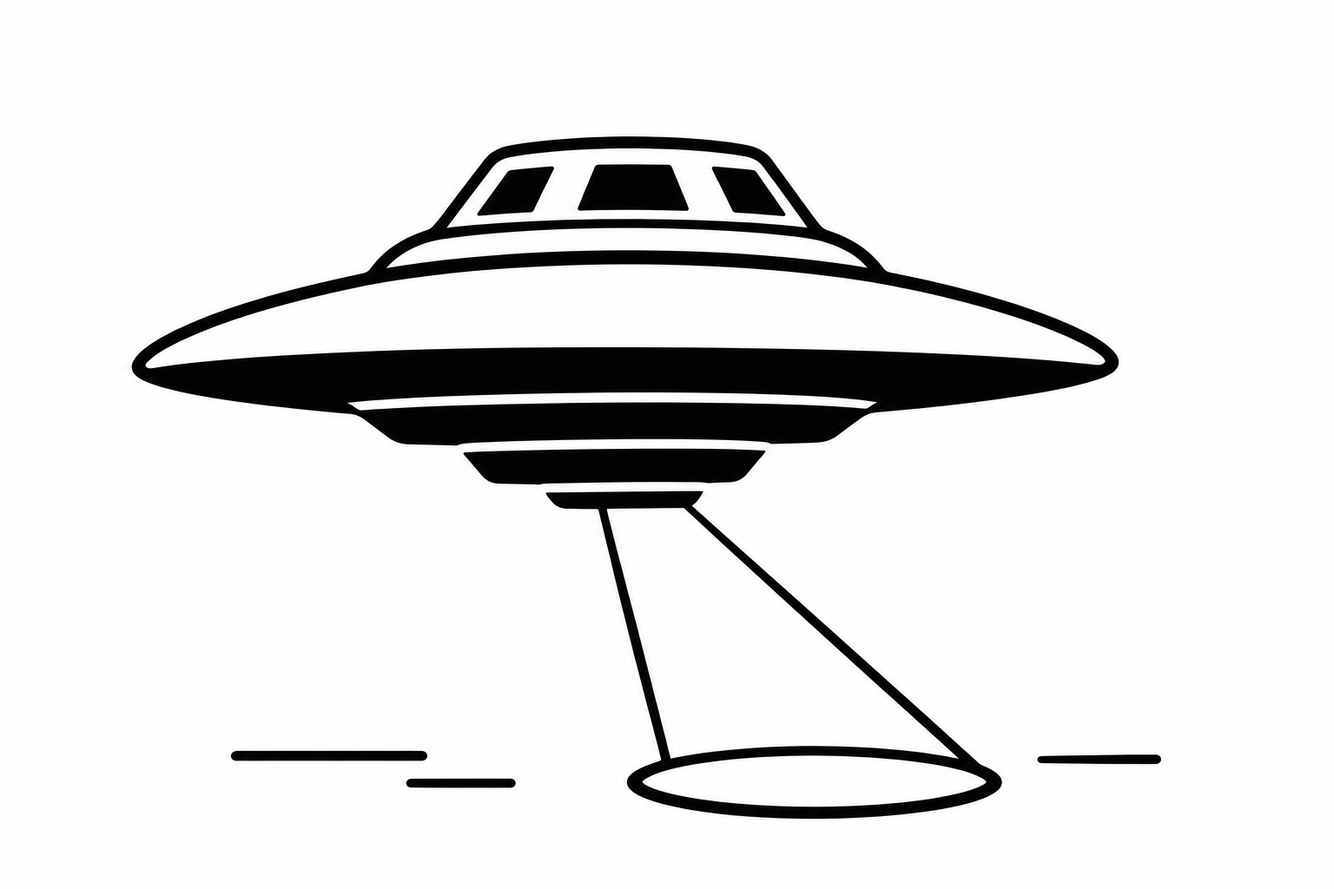
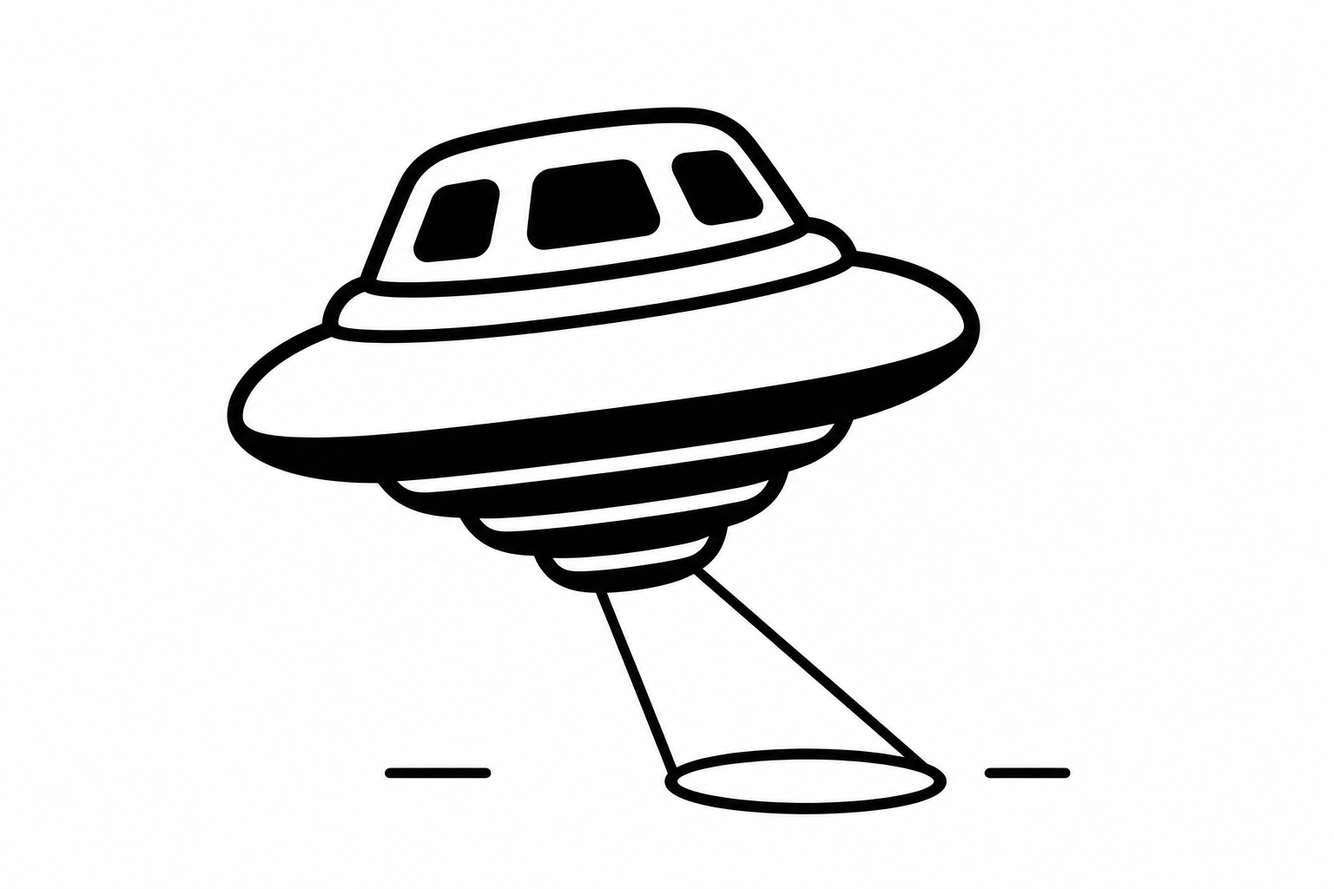
Soften empty-state craft proportions and add playful tilt

Changed region(s): [[0.0938, 0.0938, 0.875, 0.9375], [0.1562, 0.8438, 0.4062, 0.9062]]

diff --git a/uap-lab/static/label-videos.html b/uap-lab/static/label-videos.html
@@ -1,6 +1,6 @@
 <!doctype html><html lang="en"><head><meta charset="utf-8"><meta name="viewport" content="width=device-width,initial-scale=1"><title>Review detections · Field Station</title><link rel="stylesheet" href="/style.css"><link rel="stylesheet" href="/app-shell.css?v=10"><script src="/app-shell.js?v=12" defer></script><style>
 main{max-width:1500px;margin:auto;padding:12px 24px}.queue-toolbar{display:flex;justify-content:space-between;align-items:center;gap:12px;margin:0 0 12px;font-size:13px}.queue-toolbar p{margin:0;color:var(--muted)}#detectionQueue{columns:260px;column-gap:0;line-height:0}.detection-card{position:relative;break-inside:avoid;display:block;overflow:hidden;margin:0;background:#05090c}.detection-image{display:block;width:100%;padding:0;border:0;border-radius:0;background:transparent}.detection-image img{display:block;width:100%;height:auto;aspect-ratio:auto 1 / 1;image-rendering:auto}.category-actions{position:absolute;inset:0;display:flex;flex-direction:column;justify-content:flex-start;background:linear-gradient(#10182033,#101820f5 45%);padding:10px;line-height:1.3;opacity:0;visibility:hidden;transition:opacity .12s;overflow:auto}.detection-card:hover .category-actions,.detection-card:focus-within .category-actions,.detection-card.controls-open .category-actions{opacity:1;visibility:visible}.category-grid{flex-shrink:0;display:grid;grid-template-columns:repeat(3,minmax(0,1fr));gap:4px}.category-grid button{font:600 11px var(--app-font);padding:4px 3px;margin:0;border:1px solid #71878c;border-radius:4px;background:#15232ce8;color:#fff;min-height:28px;overflow-wrap:anywhere}.category-grid button:hover,.category-grid button:focus-visible{background:#315748;outline:2px solid #b8f4dd;outline-offset:0}.review-actions{display:flex;align-items:center;gap:8px;margin-top:8px;font-size:12px}.review-actions a,.review-actions button{flex:1;text-align:center;font:inherit;padding:4px 4px;background:#101820;color:#fff;border:1px solid #71878c;border-radius:4px;text-decoration:none}.queue-error{color:#ffb6aa;font-size:12px;line-height:1.4;margin:6px 0 0}.queue-toast{position:fixed;bottom:20px;left:50%;transform:translateX(-50%);z-index:1001;background:#15232c;color:#fff;border:1px solid #71878c;border-radius:8px;padding:12px 16px;display:flex;gap:16px;align-items:center;max-width:94vw;line-height:1.4}.queue-toast[hidden]{display:none}#moreDetections{margin:16px 0}#queueFrame{width:min(1200px,96vw);background:#101820;color:#fff;border:1px solid #71878c;border-radius:8px;max-height:92dvh}#queueFrame img{max-width:100%;max-height:70dvh;object-fit:contain;display:block;margin:12px auto}#queueFrame::backdrop{background:#000b}.frame-actions{display:flex;justify-content:space-between;gap:16px;align-items:center}@media(max-width:600px){main{padding:8px 12px}.category-grid{grid-template-columns:repeat(2,minmax(0,1fr))}.category-grid button{min-height:28px}.category-actions{justify-content:flex-start}.queue-toolbar{font-size:12px}#detectionQueue{columns:2}.category-actions{padding:6px}}@media(hover:none) and (any-hover:none){.detection-card .category-actions{position:relative;inset:auto;opacity:1;visibility:visible;background:var(--panel,#101820);padding:10px}.category-grid button,.review-actions a,.review-actions button{min-height:36px}}
 #queueFilters{display:flex;gap:8px;margin:0 0 8px;overflow-x:auto;scrollbar-width:none}#queueFilters::-webkit-scrollbar{display:none}#queueFilters a{font-size:13px;text-decoration:none;color:inherit;border-bottom:2px solid transparent;padding:2px 12px 1rem;white-space:nowrap}#queueFilters [aria-current="page"]{font-weight:700;border-bottom-color:var(--accent)}#detectionQueue{display:grid;grid-template-columns:repeat(auto-fill,minmax(min(240px,100%),320px));gap:0;columns:auto}.detection-card{align-self:start}.detection-image{aspect-ratio:auto;width:100%;height:auto;overflow:hidden}.detection-image img{width:100%;height:auto;aspect-ratio:auto;object-fit:contain}@media(max-width:600px){#detectionQueue{grid-template-columns:repeat(2,minmax(0,1fr));columns:auto}}.detection-card.selected{outline:3px solid var(--accent);outline-offset:-3px}.frame-select{position:absolute;right:8px;bottom:8px;z-index:2;width:22px;height:22px;cursor:pointer;accent-color:var(--accent)}.bulk-review{position:fixed;left:50%;bottom:max(12px,env(safe-area-inset-bottom));transform:translateX(-50%);width:max-content;max-width:calc(100vw - 24px);max-height:calc(100dvh - 120px);overflow:auto;z-index:1001;border-radius:8px;box-shadow:0 8px 32px #0005;display:flex;align-items:center;flex-wrap:wrap;gap:12px;padding:12px;background:var(--bg,#101820);color:var(--text,inherit);border:1px solid var(--accent);line-height:1.4}.bulk-review[hidden]{display:none}main:has(.bulk-review:not([hidden])){padding-bottom:calc(var(--bulk-review-height,180px) + 32px)}#bulkCategories{display:flex;gap:8px;flex-wrap:wrap}.selection-help{font-size:12px;color:var(--muted)}.detection-card{user-select:none}
-#queueToast{pointer-events:none}#objectViews{display:flex;overflow-x:auto;gap:8px;margin-bottom:12px}#objectViews button{white-space:nowrap;background:transparent;color:inherit;border:0;border-bottom:2px solid transparent;border-radius:0}#objectViews button[aria-pressed="true"]{border-bottom-color:var(--accent);font-weight:700}.object-label{position:absolute;top:0;left:0;padding:6px 8px;background:var(--panel);color:var(--ink);font-size:11px;line-height:1.3;pointer-events:none}.category-actions{padding-top:42px}</style><link rel="stylesheet" href="/review-filters.css?v=1"></head><body><main><p id="queueStatus" hidden></p><nav id="objectViews" class="category-tabs" aria-label="Detection views"></nav><div id="bulkReview" class="bulk-review" role="region" aria-label="Classify selected frames" hidden><span id="selectionCount" role="status"></span><div id="bulkCategories"></div><button id="selectAll" type="button">Select all loaded</button><button id="clearSelection" type="button">Clear selection</button></div><div id="detectionQueue"></div><button id="moreDetections" hidden>Load 100 more</button><p id="queueEmpty" hidden><svg class="review-empty-ufo" aria-hidden="true" focusable="false" xmlns="http://www.w3.org/2000/svg" viewBox="110 110 1270 875" version="1.1">
-	<path d="M 693 157.665 C 650.668 159.178, 600.226 164.196, 582.500 168.658 C 574.414 170.694, 566.151 175.231, 561.283 180.309 C 557.330 184.433, 543.645 202.021, 516.783 237.500 C 498.668 261.426, 497.100 262.972, 487.391 266.481 C 462.307 275.548, 444.528 287.414, 430.424 304.500 C 427.247 308.350, 423.887 312.045, 422.958 312.712 C 422.030 313.379, 410.217 316.408, 396.709 319.443 C 318.676 336.977, 266.453 352.396, 224.193 370.379 C 157.794 398.634, 136.012 422.723, 163.702 437.274 C 190.947 451.591, 282.720 466.869, 399.500 476.529 C 410.534 477.442, 415.060 479.739, 434.142 494.110 C 457.530 511.724, 455.567 511.121, 493.461 512.322 C 517.082 513.070, 525.489 513.017, 528.925 512.098 C 551.173 506.147, 833.063 503.752, 876 509.149 C 889.804 510.883, 906.171 511.206, 928 510.175 C 953.988 508.947, 954.942 508.610, 975.224 493.482 C 997.586 476.802, 998.821 476.236, 1016.704 474.470 C 1024.842 473.666, 1045.450 471.637, 1062.500 469.961 C 1163.423 460.038, 1247.488 445.439, 1273 433.406 C 1283.845 428.290, 1288 423.749, 1288 417.010 C 1288 389.889, 1184.704 347.580, 1047.522 318.514 L 1021.898 313.085 1008.699 299.683 C 991.811 282.536, 980.344 275.134, 958.289 267.143 C 953.773 265.507, 949.216 263.564, 948.161 262.825 C 944.976 260.595, 938.357 251.971, 912.570 216.454 C 886.336 180.323, 882.681 176.127, 873.545 171.654 C 853.993 162.080, 764.187 155.122, 693 157.665 M 675 172.034 C 642.936 173.568, 604.993 177.531, 588.612 181.058 C 579.491 183.022, 573.135 186.024, 569.353 190.155 C 565.250 194.637, 514.999 261.333, 515.413 261.747 C 515.642 261.976, 522.956 261.451, 531.665 260.581 C 641.615 249.591, 824.513 249.844, 919.333 261.118 C 924.191 261.695, 928.387 261.946, 928.658 261.676 C 929.540 260.793, 878.611 191.104, 874.608 187.716 C 868.088 182.198, 860.218 180.022, 835.994 177.038 C 796.439 172.165, 721.160 169.826, 675 172.034 M 694.599 189.863 L 685.699 190.500 679.804 204.500 C 668.268 231.894, 665.014 240.414, 665.791 241.191 C 667.120 242.520, 792.311 242.568, 792.753 241.240 C 793.185 239.945, 774.309 193.138, 772.611 191.293 C 771.333 189.904, 709.779 188.776, 694.599 189.863 M 621 192.690 C 619.075 192.893, 610.886 193.726, 602.803 194.541 C 594.719 195.356, 587.404 196.291, 586.548 196.620 C 584.282 197.489, 550.621 244.079, 550.555 246.436 C 550.492 248.717, 548.130 248.717, 579 246.440 C 589.725 245.649, 600.975 244.995, 604 244.987 C 613.519 244.962, 612.540 246.142, 625.837 218.680 C 632.542 204.831, 638.022 193.162, 638.014 192.750 C 638 192.009, 627.788 191.973, 621 192.690 M 820.081 193.750 C 820.126 194.713, 825.639 206.525, 832.331 220 L 844.500 244.500 853.500 245.186 C 858.450 245.563, 869.250 246.369, 877.500 246.977 C 885.750 247.584, 895.087 248.346, 898.250 248.670 C 905.995 249.462, 905.860 248.484, 896.326 234.641 C 882.482 214.541, 869.983 197.108, 868.968 196.480 C 867.881 195.809, 829.828 192.056, 823.750 192.021 C 820.807 192.005, 820.018 192.376, 820.081 193.750 M 643.500 264.049 C 580.435 266.921, 518.383 272.897, 497.015 278.158 C 485.646 280.957, 472.620 286.732, 462.675 293.382 C 454.109 299.109, 442.889 309.688, 446.500 308.632 C 449.471 307.763, 495.451 301.306, 511 299.575 C 667.593 282.135, 854.106 285.239, 994.500 307.623 L 998.500 308.261 994.500 304.036 C 981.738 290.559, 957.647 279.378, 932 275.031 C 910.500 271.387, 872.128 267.878, 821.500 264.927 C 797.541 263.530, 668.834 262.896, 643.500 264.049 M 696 304.680 C 615.533 305.817, 539.186 311.344, 469.500 321.077 C 394.607 331.538, 298.689 355.954, 238.159 379.966 C 198.661 395.634, 168 413.394, 168 420.602 C 168 424.346, 171.523 424.496, 192.349 421.638 C 293.661 407.732, 475.935 400.015, 703 400.019 C 934.380 400.022, 1131.422 406.746, 1244.879 418.509 C 1262.639 420.350, 1268.096 420.382, 1270.456 418.656 C 1282.746 409.669, 1217.442 378.775, 1136.817 355.432 C 1026.465 323.483, 915.388 308.479, 763.500 305.007 C 739.850 304.466, 718.700 304.119, 716.500 304.235 C 714.300 304.352, 705.075 304.552, 696 304.680 M 636.077 453.073 C 535.714 454.877, 431.088 459.644, 404.735 463.614 L 400.970 464.181 407.235 468.267 C 411.786 471.235, 414.457 472.319, 417 472.229 C 418.925 472.161, 437.600 471.190, 458.500 470.071 C 545.576 465.411, 644.678 463.630, 779.500 464.302 C 896.186 464.883, 949.268 466.349, 987.350 470.043 L 997.200 470.999 1003.115 467.348 C 1006.369 465.340, 1008.898 463.565, 1008.736 463.403 C 1007.515 462.181, 973.867 458.660, 948 457.046 C 875.388 452.517, 753.453 450.964, 636.077 453.073 M 657.500 517.621 C 559.542 519.633, 533.996 520.620, 534.006 522.393 C 534.014 523.780, 555.662 549.160, 559.234 551.970 C 560.684 553.110, 563.587 554.645, 565.685 555.382 C 571.671 557.483, 607.788 558.264, 638.500 556.957 C 653.350 556.325, 706 555.683, 755.500 555.531 C 853.249 555.231, 848.824 555.484, 855.966 549.776 C 859.190 547.200, 881 521.255, 881 519.996 C 881 519.546, 878.188 518.915, 874.750 518.595 C 868.097 517.974, 681.108 517.136, 657.500 517.621 M 667.750 566.750 C 634.682 566.983, 629 567.236, 629 568.474 C 629 571.477, 637.504 580.489, 642.941 583.250 C 648.309 585.975, 648.540 586, 668.144 586 C 685.974 586, 688.020 586.173, 688.840 587.750 C 689.340 588.712, 693.455 605.025, 697.985 624 C 709.373 671.703, 729.167 750.999, 741.171 797 C 760.640 871.606, 761.466 875.092, 759.911 876.076 C 759.135 876.567, 755.575 877.938, 752 879.121 C 741.698 882.531, 731.703 887.604, 726.916 891.852 C 722.793 895.511, 722.500 896.107, 722.500 900.830 C 722.500 905.222, 722.945 906.348, 725.876 909.373 C 751.120 935.418, 899.296 950.363, 1024 939.442 C 1113.036 931.645, 1161.421 915.442, 1152.406 896.443 C 1150.399 892.214, 1145.728 888.649, 1135.848 883.806 C 1128.001 879.960, 1123.942 876.596, 1094.500 849.539 C 1088.450 843.979, 1072.475 829.535, 1059 817.442 C 1045.525 805.349, 1021 783.333, 1004.500 768.517 C 942.767 713.087, 913.556 686.931, 885 661.519 C 872.075 650.017, 846.969 627.588, 829.208 611.678 L 796.917 582.750 800.502 579.165 C 802.474 577.193, 805.413 573.424, 807.034 570.790 L 809.982 566 758.241 566.238 C 729.783 566.369, 689.063 566.599, 667.750 566.750 M 724.750 585.749 C 703.545 585.984, 699 586.280, 699 587.427 C 699 589.123, 704.460 610.557, 724.492 687.500 C 739.980 746.986, 745.261 767.532, 762.660 836 C 767.902 856.625, 772.260 873.561, 772.345 873.635 C 772.430 873.709, 776.686 872.928, 781.802 871.900 C 864.474 855.284, 1015.077 855.535, 1095.646 872.424 C 1101.482 873.647, 1104.474 873.769, 1102.917 872.719 C 1102.688 872.565, 1097.100 867.481, 1090.500 861.423 C 1079.468 851.296, 1066.772 839.813, 1005.944 784.944 C 955.554 739.492, 833.789 628.203, 800.500 597.176 L 787.500 585.059 769 585.262 C 758.825 585.373, 738.913 585.593, 724.750 585.749 M 268.223 866.557 C 265.630 868.372, 265.316 872.173, 267.571 874.429 C 268.981 875.838, 280.456 876, 378.916 876 C 483.993 876, 488.761 875.922, 490.345 874.171 C 492.650 871.625, 492.409 868.400, 489.777 866.557 C 486.392 864.186, 271.608 864.186, 268.223 866.557 M 1243.500 870.024 C 1219.300 870.399, 1198.529 871.014, 1197.342 871.391 C 1194.365 872.337, 1193.778 874.504, 1195.817 877.023 C 1197.528 879.135, 1197.801 879.146, 1265.264 879.730 C 1329.725 880.288, 1333.090 880.229, 1334.997 878.503 C 1337.544 876.197, 1337.546 873.546, 1335 871 C 1332.725 868.725, 1329.487 868.691, 1243.500 870.024 M 900.053 871.106 C 826.046 873.730, 762.388 884.322, 743.417 897.170 C 739.147 900.061, 739.397 901.818, 744.485 904.672 C 780.150 924.678, 918.199 934.853, 1026 925.422 C 1079.408 920.750, 1127.807 910.168, 1134.909 901.610 C 1135.997 900.299, 1135.493 899.635, 1131.484 897.092 C 1110.161 883.569, 1048.012 873.775, 966 871.013 C 933.952 869.933, 933.100 869.934, 900.053 871.106 M 469.571 898.571 C 467.399 900.744, 467.594 904.712, 469.934 905.965 C 471.205 906.645, 492.279 907, 531.411 907 L 590.954 907 592.592 904.500 C 594.109 902.184, 594.109 901.816, 592.592 899.500 L 590.954 897 531.048 897 C 477.922 897, 470.965 897.178, 469.571 898.571" stroke="none" fill="currentColor" fill-rule="evenodd"/>
+#queueToast{pointer-events:none}#objectViews{display:flex;overflow-x:auto;gap:8px;margin-bottom:12px}#objectViews button{white-space:nowrap;background:transparent;color:inherit;border:0;border-bottom:2px solid transparent;border-radius:0}#objectViews button[aria-pressed="true"]{border-bottom-color:var(--accent);font-weight:700}.object-label{position:absolute;top:0;left:0;padding:6px 8px;background:var(--panel);color:var(--ink);font-size:11px;line-height:1.3;pointer-events:none}.category-actions{padding-top:42px}</style><link rel="stylesheet" href="/review-filters.css?v=1"></head><body><main><p id="queueStatus" hidden></p><nav id="objectViews" class="category-tabs" aria-label="Detection views"></nav><div id="bulkReview" class="bulk-review" role="region" aria-label="Classify selected frames" hidden><span id="selectionCount" role="status"></span><div id="bulkCategories"></div><button id="selectAll" type="button">Select all loaded</button><button id="clearSelection" type="button">Clear selection</button></div><div id="detectionQueue"></div><button id="moreDetections" hidden>Load 100 more</button><p id="queueEmpty" hidden><svg class="review-empty-ufo" aria-hidden="true" focusable="false" xmlns="http://www.w3.org/2000/svg" viewBox="210 70 1070 910" version="1.1">
+	<path d="M 733.500 125.515 C 651.752 132.100, 553.273 148.809, 514.836 162.616 C 491.995 170.821, 474.158 184.270, 464.400 200.644 C 457.908 211.540, 443.578 245.057, 422.991 297.500 L 414.747 318.500 405.905 322.754 C 387.747 331.492, 373.837 349.673, 371.430 367.815 L 370.769 372.798 364.135 375.569 C 310.480 397.975, 272.060 431.800, 263.426 464.232 C 261.534 471.341, 261.618 485.334, 263.593 492.068 C 274.324 528.646, 332.882 553.519, 413.444 555.721 L 434.388 556.293 444.444 566.431 C 455.294 577.370, 462.210 581.983, 475.500 587.146 C 486.035 591.239, 503.705 594.781, 517.791 595.623 L 529.143 596.302 533.934 603.401 C 539.829 612.136, 550.474 622.254, 559.051 627.274 C 570.681 634.081, 593.835 639.915, 609.500 639.986 L 614.500 640.009 618.462 647.754 C 623.654 657.903, 634.781 669.184, 644 673.646 C 655.464 679.194, 659.790 680.277, 680.460 682.780 L 686.420 683.501 706.260 733.001 C 717.173 760.225, 735.699 806.754, 747.429 836.398 L 768.757 890.296 766.810 894.697 C 759.793 910.560, 782.026 923.309, 830 930.933 C 907.496 943.248, 1022.853 938.193, 1067.991 920.504 C 1086.268 913.341, 1093.258 904.206, 1088.019 894.331 C 1085.362 889.322, 1081.943 886.513, 1073.010 882.005 C 1068.647 879.802, 1060.293 873.273, 1047.510 862.072 C 1015.408 833.944, 996.750 817.661, 992.427 814 C 990.153 812.075, 966.786 791.825, 940.500 769 C 914.214 746.175, 890.844 725.925, 888.567 724 C 886.290 722.075, 867.444 705.722, 846.688 687.660 L 808.949 654.819 812.765 652.056 C 823.391 644.358, 831.312 631.962, 835.972 615.738 L 838.580 606.658 845.540 604.327 C 878.355 593.336, 898.222 575.299, 906.483 549 L 908.211 543.500 920.756 539.024 C 949.321 528.831, 967.801 514.003, 978.400 492.772 L 982.932 483.693 998.784 478.914 C 1077.917 455.057, 1125.991 418.345, 1127.793 380.394 C 1128.582 363.794, 1123.661 352.665, 1109.015 337.924 C 1091.780 320.578, 1069.670 308.616, 1037.994 299.498 C 1027.382 296.444, 1002.330 291.150, 991 289.567 C 986.655 288.960, 986.404 288.732, 983.694 282.929 C 976.292 267.076, 956.552 253.655, 936 250.504 C 931.516 249.817, 931.466 249.764, 922.129 235.822 C 896.695 197.844, 870.140 161.241, 861.050 151.633 C 849.882 139.827, 834.332 131.105, 817 126.925 C 808.410 124.854, 804.770 124.611, 779 124.390 C 761.516 124.240, 743.929 124.675, 733.500 125.515 M 739.500 143.088 C 665.391 148.234, 562.434 165.432, 521.758 179.460 C 498.630 187.435, 484.637 199.318, 475.363 218.854 C 467.744 234.904, 444.758 290.627, 435.612 315.219 L 433.113 321.937 436.807 323.062 C 442.562 324.814, 482.416 325.379, 509.228 324.089 C 614.393 319.027, 767.535 297.631, 860.912 274.954 C 891.299 267.575, 914 260.237, 914 257.795 C 914 254.586, 871.156 192.666, 853.802 170.795 C 842.915 157.074, 830.652 148.929, 814.747 144.856 C 807.533 143.009, 803.118 142.709, 779.500 142.465 C 764.650 142.311, 746.650 142.591, 739.500 143.088 M 801.500 174.591 C 784.349 176.262, 778.826 178.242, 775.600 183.878 C 771.645 190.788, 772.493 193.752, 786.583 222.256 C 793.688 236.627, 800.807 249.900, 802.405 251.751 C 806.484 256.478, 812.455 259.280, 818.488 259.300 C 823.468 259.316, 862.697 252.753, 868.572 250.921 C 876.373 248.487, 880.812 239.273, 877.734 231.906 C 876.259 228.376, 865.411 212.530, 849.730 191 C 836.317 172.585, 833.150 171.507, 801.500 174.591 M 692 186 C 646.117 191.684, 629.159 194.614, 624.123 197.727 C 618.155 201.417, 614.241 207.158, 613.029 214 C 610.903 225.994, 606.831 265.804, 607.230 270.686 C 607.922 279.157, 613.809 285.580, 622.580 287.433 C 628.048 288.589, 741.403 273.118, 749.086 270.167 C 755.983 267.519, 760.590 259.306, 759.763 251.133 C 759.246 246.027, 739.552 198.957, 735.393 192.886 C 732.383 188.493, 725.084 184.413, 719 183.724 C 716.525 183.443, 704.375 184.467, 692 186 M 533.976 209.904 C 510.771 214.013, 508.396 214.835, 502.868 220.668 C 498.208 225.585, 498.227 225.546, 488.783 249.893 C 474.691 286.226, 474.619 286.517, 478.060 293.624 C 481.283 300.281, 486.687 302.456, 497.835 301.582 C 518.260 299.979, 546.759 296.834, 549.881 295.838 C 554.511 294.360, 560.957 288.331, 563.072 283.500 C 565.950 276.925, 575.244 227.360, 574.752 221.209 C 574.073 212.718, 568.755 207.465, 559.913 206.550 C 557.263 206.276, 546.900 207.616, 533.976 209.904 M 926.498 271.071 C 921.578 274.596, 906.011 280.816, 892 284.855 C 761.554 322.458, 470.608 355.481, 424.546 337.912 L 419.500 335.988 413.169 339.096 C 400.697 345.221, 389.486 360.341, 390.185 370.095 C 390.564 375.371, 392.041 376.303, 403.054 378.210 C 413.011 379.935, 490.875 379.927, 515.500 378.200 C 640.871 369.403, 810.675 344.159, 901 320.888 C 941.108 310.555, 961.551 303.355, 966.825 297.704 L 969.149 295.212 966.942 290.887 C 961.919 281.040, 954.207 274.500, 943.659 271.141 C 933.282 267.836, 931.025 267.827, 926.498 271.071 M 979.592 307.851 C 978.325 309.902, 966.549 315.780, 955.500 319.879 C 889.863 344.225, 714.809 375.066, 563.365 388.966 C 477.315 396.864, 398.868 396.816, 383.761 388.858 C 382.499 388.193, 378.936 389.201, 370.761 392.536 C 318.180 413.989, 280 450.154, 280 478.509 C 280 491.746, 290 497.994, 316.853 501.534 C 362.270 507.521, 439.339 502.559, 598 483.431 C 899.814 447.045, 1035.884 423.014, 1088.919 396.731 C 1114.162 384.220, 1116.290 371.944, 1096.774 351.399 C 1079.765 333.493, 1049.210 319.367, 1010.500 311.513 C 990.407 307.436, 980.569 306.271, 979.592 307.851 M 947 490.581 C 935.653 492.901, 893.590 500.042, 856.424 505.959 C 752.628 522.484, 535.222 549.156, 468.250 553.580 C 462.613 553.953, 458 554.557, 458 554.923 C 458 555.289, 460.176 557.249, 462.836 559.277 C 475.544 568.969, 481.173 569.104, 553.500 561.451 C 658.313 550.361, 787.410 533.385, 873 519.436 C 941.809 508.222, 946.566 506.816, 955.975 494.913 C 959.824 490.043, 960.873 487.866, 959.250 488.115 C 958.837 488.178, 953.325 489.288, 947 490.581 M 871.500 556.642 C 820.637 571.025, 632.001 595.807, 562.162 597.282 L 551.824 597.500 556.394 602.131 C 563.413 609.245, 568.501 611.227, 581.171 611.782 C 614.975 613.265, 773.571 593.502, 845 578.906 C 862.307 575.369, 871.992 571.147, 877.533 564.722 C 881.298 560.357, 885.627 552.905, 884.270 553.124 C 883.847 553.193, 878.100 554.776, 871.500 556.642 M 811.237 619.590 C 790.728 628.556, 708.085 640.853, 655.084 642.824 L 636.911 643.500 639.373 646.832 C 648.857 659.669, 662.744 660.781, 721.796 653.432 C 760.111 648.664, 790.266 642.911, 798.295 638.839 C 803.868 636.011, 809.795 630.284, 813.086 624.547 C 817.186 617.400, 817.054 617.046, 811.237 619.590 M 794.500 663.201 C 778.917 671.431, 749.096 678.371, 715.540 681.574 C 706.755 682.413, 699.451 683.216, 699.309 683.358 C 699.166 683.500, 704.927 698.215, 712.110 716.058 C 728.733 757.350, 764.855 847.704, 772.923 868.173 L 779.101 883.845 784.672 881.381 C 828.526 861.987, 948.483 856.405, 1028.942 870.014 C 1035.235 871.078, 1040.471 871.848, 1040.577 871.725 C 1040.684 871.601, 1036.885 868.094, 1032.135 863.930 C 1023.021 855.940, 911.390 758.989, 904.408 753 C 902.165 751.075, 884.842 736.025, 865.914 719.555 C 846.986 703.086, 826.805 685.536, 821.066 680.555 C 815.327 675.575, 808.018 669.138, 804.824 666.250 C 801.631 663.362, 798.901 661.020, 798.759 661.044 C 798.616 661.069, 796.700 662.039, 794.500 663.201 M 892 875.689 C 832.518 878.472, 778.745 890.324, 780.196 900.331 C 781.763 911.146, 832.940 921.287, 900.414 924.153 C 981.790 927.609, 1075 914.648, 1075 899.877 C 1075 892.836, 1047.073 884.220, 1009 879.514 C 978.007 875.683, 927.457 874.031, 892 875.689 M 455.532 884.771 C 445.855 885.109, 443 886.414, 443 890.500 C 443 896.130, 441.556 896, 504.257 896 C 567.605 896, 565 896.259, 565 889.964 C 565 884.684, 564.667 884.650, 512.500 884.550 C 486.100 884.500, 460.464 884.599, 455.532 884.771 M 1145.710 884.896 C 1135.422 885.531, 1134.047 886.211, 1134.015 890.679 C 1133.977 896.064, 1133.396 896, 1182.637 896 C 1212.085 896, 1228.814 895.635, 1230.066 894.965 C 1232.519 893.652, 1232.700 887.826, 1230.348 885.872 C 1228.557 884.385, 1165.733 883.660, 1145.710 884.896" stroke="none" fill="currentColor" fill-rule="evenodd"/>
 </svg><span>No objects in this view.</span></p></main><div id="queueToast" class="queue-toast" role="status" hidden><span id="queueSaved"></span></div><dialog id="queueFrame" aria-label="Detected object in original frame"><div class="frame-actions"><a id="queueVideoLink">Review video</a><button id="closeQueueFrame">Close</button></div><div id="queueFrameStage" style="position:relative"><img id="queueFullFrame" alt="Original frame with the detected object boxed"><span id="queueFrameBox" hidden style="position:absolute;border:3px solid #ffdc55;box-sizing:border-box;pointer-events:none"></span></div><p>Choose a category on the card to save its label. Open the video to scrub, redraw boxes, or review additional objects.</p></dialog><script src="/review-filters.js?v=1"></script><script src="/detections.js?v=independent-filters-1"></script></body></html>

diff --git a/design/review-empty/README.md b/design/review-empty/README.md
@@ -1,3 +1,5 @@
 Generated with the built-in imagegen tool, then automatically traced with Potrace (threshold 128, turdSize 16, optTolerance 0.3). SVG uses currentColor; white areas are transparent. The app embeds the SVG inline.
 
-Prompt: Create a polished monochrome vector-style editorial illustration for a professional sky observation app empty state. Use the Bob Lazar Sport Model craft geometry: low flattened truncated cabin with three dark trapezoid windows, broad sloping saucer and sharp elliptical rim, stepped underside. Craft hovering and searching empty ground with an angled searchlight cone terminating in a simple ellipse. Sophisticated corporate editorial illustration, thick clean black contours, balanced curved shapes, minimal detail, elegant negative space. Black and white only; no gradients, texture, text, question marks, faces, stars or landscape. Reference: https://projectgravitaur.com/products/theyre-here-poster
+Latest edit prompt:
+
+Edit this professional app empty-state illustration to be noticeably CUTER through proportions and gesture. Make the saucer more compact and pleasantly plump, a slightly oversized low cabin, softly rounded corners and a playful 12-degree tilt as it curiously searches empty ground with its angled searchlight. Keep recognizable Bob Lazar Sport Model silhouette: truncated cabin, three dark windows, broad saucer rim, stepped underside. Keep polished corporate editorial style, thick confident clean black lines and economical solid black accents, ample negative space. Warm charming personality through pose only, NO face, eyes, smile, question mark, text, stars or sparkles. The saucer is searching and finding nothing. One searchlight cone and small empty ground ellipse, 2 short ground marks. Pure black and white only, white background, no grey, textures or gradients, easy to vector trace. Preserve the simple centered composition and restrained sophistication, but make it genuinely friendlier and cuter, less rigid and technical.
